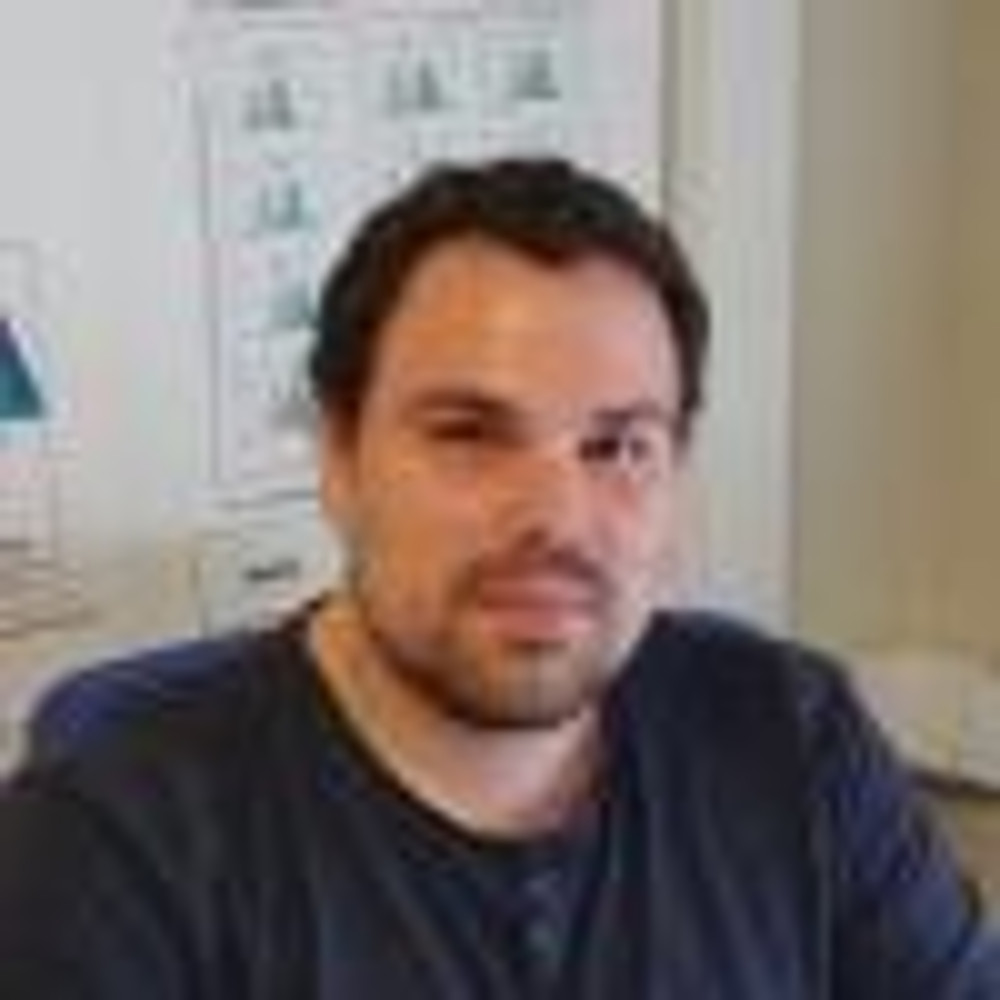
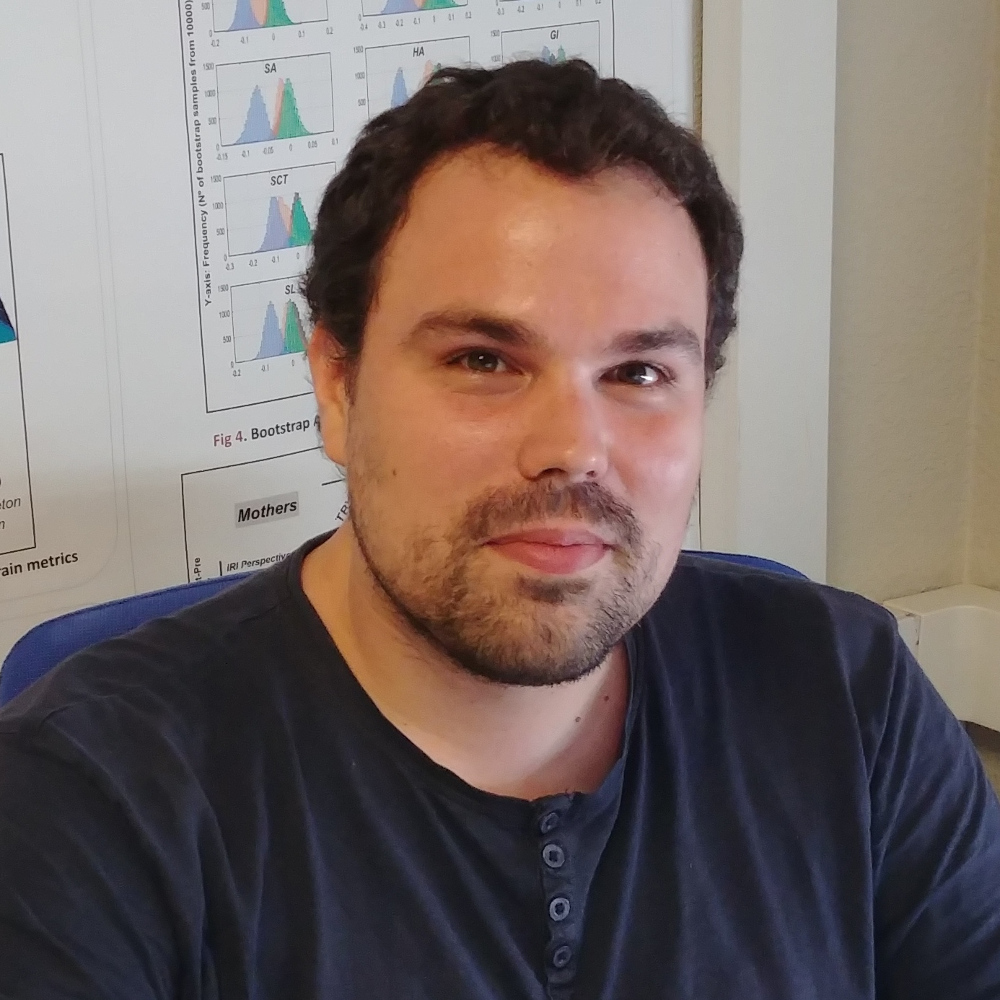
Updated images in Member page, text properties and links

diff --git a/assets/sass/academia/_widgets.scss b/assets/sass/academia/_widgets.scss
@@ -276,6 +276,9 @@ a.hero-cta-alt:hover {
   object-fit: cover;
 }
 
+.col-lg-7{
+  text-align: justify;
+}
 .portrait-title h2 {
   font-size: 1.75em;
   font-weight: 300;
@@ -498,28 +501,46 @@ ul.ul-edu li .description p.institution {
   text-align: center;
 }
 
-.people-widget .portrait-title h2 {
-  font-size: 1rem;
-}
-
-.people-widget .portrait-title h3 {
-  font-size: 0.7rem;
-}
-
 .people-widget .portrait {
   width: 80%;
   max-width: 150px;
   height: auto;
 }
 
+//Vista movil
+@media (min-width: 340px) {
+  .people-widget .col-sm-auto {
+    width: 30%;
+  }
+  .people-widget .portrait-title h2 {
+    font-size: 1rem;
+  }
+  .people-widget .portrait-title h3 {
+    font-size: 0.7rem;
+  }
+}
+//Vista tablet
 @media (min-width: 576px) {
   .people-widget .col-sm-auto {
     width: 30%;
   }
+  .people-widget .portrait-title h2 {
+    font-size: 1rem;
+  }
+  .people-widget .portrait-title h3 {
+    font-size: 0.7rem;
+  }
 }
+//Vista ordenador
 @media (min-width: 992px) {
   .people-widget .col-sm-auto {
     width: 20%;
+  }
+  .people-widget .portrait-title h2 {
+    font-size: 1rem;
+  }
+  .people-widget .portrait-title h3 {
+    font-size: 0.6rem;
   }
 }
 

diff --git a/content/authors/1mmartinez/_index.md b/content/authors/1mmartinez/_index.md
@@ -26,13 +26,18 @@ interests:
 #   For an email link, use "fas" icon pack, "envelope" icon, and a link in the
 #   form "mailto:your-email@example.com" or "#contact" for contact widget.
 social:
-- icon: envelope
-  icon_pack: fas
-  link: 'mailto:mmartinez@hggm.es'  # For a direct email link, use "mailto:test@example.org".
 - icon: google-scholar
   icon_pack: ai
   link: https://www.researchgate.net/profile/Magdalena-Martinez-Garcia
-
+- icon: researchgate
+  icon_pack: ai
+  link: 'https://www.researchgate.net/profile/Magdalena-Martinez-Garcia'
+- icon: twitter
+  icon_pack: fab
+  linkg: https://twitter.com/MagdaMartinezG1
+- icon: envelope
+  icon_pack: fas
+  link: 'mailto:mmartinez@hggm.es'  # For a direct email link, use "mailto:test@example.org".
 # Enter email to display Gravatar (if Gravatar enabled in Config)
 email: ""
   

diff --git a/content/authors/admin/_index.md b/content/authors/admin/_index.md
@@ -37,12 +37,16 @@ education:
 #   For an email link, use "fas" icon pack, "envelope" icon, and a link in the
 #   form "mailto:your-email@example.com" or "#contact" for contact widget.
 social:
+- icon: google-scholar
+  icon_pack: ai
+  link: 'https://scholar.google.es/citations?user=v8KVfh0AAAAJ&hl=es'
+- icon: researchgate
+  icon_pack: ai
+  link: 'https://www.researchgate.net/profile/Susanna-Carmona'
 - icon: envelope
   icon_pack: fas
   link: 'mailto:scarmona@hggm.es'  # For a direct email link, use "mailto:test@example.org".
-- icon: google-scholar
-  icon_pack: ai
-  link: https://scholar.google.es/citations?user=v8KVfh0AAAAJ&hl=es
+
 
 # Enter email to display Gravatar (if Gravatar enabled in Config)
 email: ""

diff --git a/content/authors/0dmartindeblas/_index.md b/content/authors/0dmartindeblas/_index.md
@@ -26,6 +26,12 @@ interests:
 #   For an email link, use "fas" icon pack, "envelope" icon, and a link in the
 #   form "mailto:your-email@example.com" or "#contact" for contact widget.
 social:
+- icon: orcid
+  icon_pack: ai
+  link: 'https://orcid.org/0000-0001-6985-9460'
+- icon: twitter
+  icon_pack: fab
+  linkg: 'https://twitter.com/dmartindeblas'
 - icon: envelope
   icon_pack: fas
   link: 'mailto:dmartindeblas@hggm.es'  # For a direct email link, use "mailto:test@example.org".
